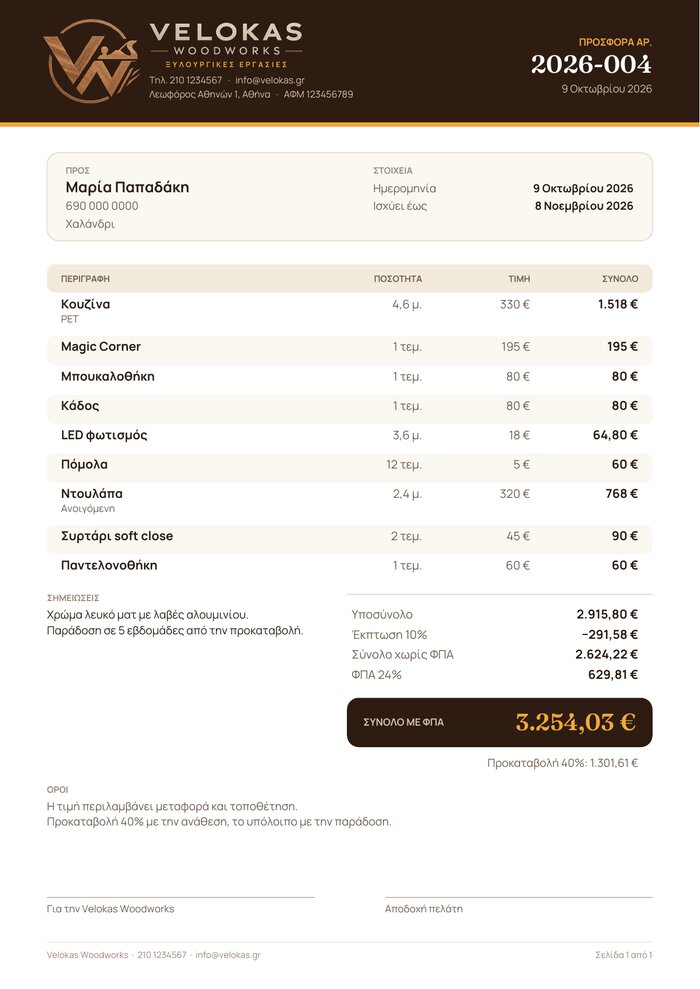
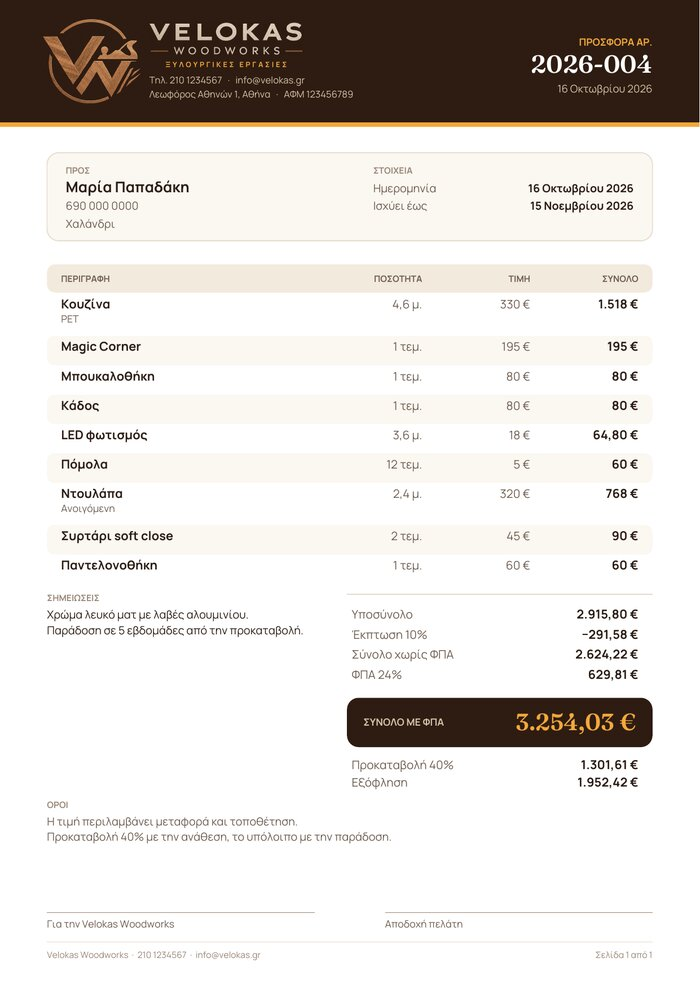
Bathroom furniture as a fourth kind of job
«Έπιπλο μπάνιου» joins Κουζίνα, Ντουλάπα and Πόρτα in the calculator and
in Settings, with its own materials (Μελαμίνη, PET, Κόντρα πλακέ) and
extras (Συρτάρι, Βαγονέτο, Καλάθι απλύτων).

- Migration 0005 rebuilds the items table once without the CHECK that
  limited the kind of job; the Worker validates it instead, from the same
  list the app uses, so later kinds need no rebuild. Ids and the id counter
  carry over, so deleted ids are still never reused.
- Melamine, PET, the drawer and the pull-out start at the kitchen's prices;
  plywood and the laundry basket start at 0 € until set in Ρυθμίσεις.
- Picker: four kinds in a 2×2 grid with «Συνδυασμός» across the bottom;
  it now keeps the job already chosen and you tick the others.
- Settings: four price-list tabs (Κουζίνα / Ντουλάπα / Πόρτα / Μπάνιο).
- PDF: slightly tighter payment lines and signature space, so a typical
  quote with deposit and balance still fits on one page.
- README and screenshots updated.

Claude-Session: https://claude.ai/code/session_01NCuyXwTXpZEXrmp5Fd4whW

diff --git a/tests/api.test.js b/tests/api.test.js
@@ -102,6 +102,10 @@ test('public config serves the seeded prices and Panos\'s price list', async () 
       ['wardrobe', 'Συρόμενη', 390, 'm'],
       ['door', 'Ανοιγόμενη', 400, 'pcs'],
       ['door', 'Συρόμενη', 600, 'pcs'],
+      // Bathroom: the kitchen's melamine and PET prices; plywood has none yet
+      ['bathroom', 'Μελαμίνη', 260, 'm'],
+      ['bathroom', 'PET', 330, 'm'],
+      ['bathroom', 'Κόντρα πλακέ', 0, 'm'],
     ],
   );
   const extras = (section) => config.extras.filter((e) => e.section === section).map((e) => [e.name, e.price, e.unit]);
@@ -113,6 +117,11 @@ test('public config serves the seeded prices and Panos\'s price list', async () 
     ['Παντελονοθήκη', 60, 'pcs'],
     ['LED φωτισμός', 18, 'm'],
     ['Πόμολα', 30, 'pcs'],
+  ]);
+  assert.deepEqual(extras('bathroom'), [
+    ['Συρτάρι', 40, 'pcs'],
+    ['Βαγονέτο', 100, 'pcs'],
+    ['Καλάθι απλύτων', 0, 'pcs'],
   ]);
   assert.equal(config.costs.length, 6);
   assert.equal('section' in config.costs[0], false, 'cost lines belong to no job');
@@ -172,7 +181,7 @@ test('saving settings updates what the calculator sees', async () => {
   assert.equal(saved.status, 200);
   const savedConfig = await saved.json();
   assert.equal(savedConfig.version, current.version + 1);
-  assert.equal(savedConfig.extras.length, 15, 'admins still see hidden items');
+  assert.equal(savedConfig.extras.length, 18, 'admins still see hidden items');
 
   const publicConfig = await (await call('GET', '/api/config')).json();
   assert.deepEqual(publicConfig.materials.slice(0, 3).map((m) => m.name), ['Μελαμίνη', 'Λάκα', 'PET']);
@@ -180,12 +189,13 @@ test('saving settings updates what the calculator sees', async () => {
   assert.equal(publicConfig.materials[1].unit, 'm2');
   assert.deepEqual(
     publicConfig.materials.map((m) => m.section),
-    ['kitchen', 'kitchen', 'kitchen', 'kitchen', 'wardrobe', 'wardrobe', 'door', 'door'],
+    ['kitchen', 'kitchen', 'kitchen', 'kitchen', 'wardrobe', 'wardrobe', 'door', 'door', 'bathroom', 'bathroom', 'bathroom'],
     'saving keeps every item in its job',
   );
   assert.equal(publicConfig.extras.find((e) => e.name === 'Παντελονοθήκη').section, 'wardrobe');
+  assert.equal(publicConfig.extras.find((e) => e.name === 'Καλάθι απλύτων').section, 'bathroom');
   assert.equal(publicConfig.extras[0].price, 205);
-  assert.equal(publicConfig.extras.length, 14, 'hidden extras are not public');
+  assert.equal(publicConfig.extras.length, 17, 'hidden extras are not public');
   assert.equal(publicConfig.settings.vatRate, 13);
   assert.equal(publicConfig.extras[0].id, current.extras[0].id, 'existing items keep their ids');
 

diff --git a/public/js/calculator.js b/public/js/calculator.js
@@ -31,8 +31,8 @@ import { session } from './session.js';
 const DRAFT_KEY = 'vw:draft:v1';
 const COST_TINT_OFFSET = 4;
 // Each job's card colour (.card[data-accent] in app.css) and chart colour.
-const JOB_ACCENT = { kitchen: 'amber', wardrobe: 'sky', door: 'teal' };
-const JOB_TINT = { kitchen: 'var(--amber)', wardrobe: 'var(--sky)', door: 'var(--teal)' };
+const JOB_ACCENT = { kitchen: 'amber', wardrobe: 'sky', door: 'teal', bathroom: 'green' };
+const JOB_TINT = { kitchen: 'var(--amber)', wardrobe: 'var(--sky)', door: 'var(--teal)', bathroom: 'var(--green)' };
 
 function setBusy(button, busy, label) {
   button.disabled = busy;
@@ -175,7 +175,7 @@ export function createCalculator({ onQuoteSaved } = {}) {
     update();
   }
 
-  // Step 1: kitchen, wardrobe or door, or «Συνδυασμός» to pick several.
+  // Step 1: one kind of job, or «Συνδυασμός» to pick several.
   function renderPicker() {
     const mode = draft.combo ? 'combo' : draft.sections[0];
     const tile = (value, label, iconName) =>
@@ -189,7 +189,7 @@ export function createCalculator({ onQuoteSaved } = {}) {
 
     comboEl.hidden = !draft.combo;
     comboEl.replaceChildren(
-      h('p', { class: 'job-combo-label' }, 'Τι περιλαμβάνει η προσφορά:'),
+      h('p', { class: 'job-combo-label' }, 'Διάλεξε τι περιλαμβάνει η προσφορά:'),
       h(
         'div',
         { class: 'chips', role: 'group', 'aria-label': 'Τι περιλαμβάνει η προσφορά' },
@@ -209,8 +209,7 @@ export function createCalculator({ onQuoteSaved } = {}) {
   function pickMode(value) {
     if (value === 'combo') {
       if (draft.combo) return;
-      draft.combo = true;
-      draft.sections = [...SECTION_KEYS]; // all three; untick what isn't needed
+      draft.combo = true; // keeps the job already chosen; tick the others
     } else {
       if (!draft.combo && draft.sections[0] === value) return;
       draft.combo = false;
@@ -224,7 +223,7 @@ export function createCalculator({ onQuoteSaved } = {}) {
   function toggleJob(key) {
     const on = draft.sections.includes(key);
     if (on && draft.sections.length === 1) {
-      toast('Η προσφορά χρειάζεται τουλάχιστον ένα από τα τρία.');
+      toast('Η προσφορά χρειάζεται τουλάχιστον μία εργασία.');
       return;
     }
     draft.sections = SECTION_KEYS.filter((k) => (k === key ? !on : draft.sections.includes(k)));

diff --git a/public/css/app.css b/public/css/app.css
@@ -306,6 +306,7 @@ img, svg { display: block; }
 .card[data-accent="violet"] { --a1: #a47bff; --a2: #e2558e; --ink: #6a44e0; }
 .card[data-accent="sky"] { --a1: #5ab8ff; --a2: #5468ff; --ink: #2f6fd0; }
 .card[data-accent="rose"] { --a1: #ff8a7a; --a2: #e24c7c; --ink: #c0365f; }
+.card[data-accent="green"] { --a1: #5ad18f; --a2: #12a594; --ink: #177f4a; }
 @media (prefers-color-scheme: dark) {
   .card[data-accent] { --ink: color-mix(in srgb, var(--a1) 85%, white); }
 }
@@ -1368,6 +1369,7 @@ textarea::placeholder { color: var(--text-3); }
 [data-job="kitchen"] { --tint: var(--amber); }
 [data-job="wardrobe"] { --tint: var(--sky); }
 [data-job="door"] { --tint: var(--teal); }
+[data-job="bathroom"] { --tint: var(--green); }
 [data-job="combo"] { --tint: var(--violet); }
 
 .job-picker { display: grid; grid-template-columns: repeat(2, 1fr); gap: 10px; }
@@ -1394,7 +1396,9 @@ textarea::placeholder { color: var(--text-3); }
   background: color-mix(in srgb, var(--tint) 16%, transparent);
 }
 .job-tile-icon .icon { width: 20px; height: 20px; }
-.job-tile-label { min-width: 0; overflow: hidden; text-overflow: ellipsis; white-space: nowrap; }
+.job-tile-label { min-width: 0; line-height: 1.2; overflow-wrap: anywhere; }
+/* «Συνδυασμός» sits under the four kinds of job, across the full width. */
+.job-tile[data-job="combo"] { grid-column: 1 / -1; flex-direction: row; align-items: center; gap: 12px; }
 .job-tile[aria-pressed="true"] {
   border-color: var(--tint);
   background: color-mix(in srgb, var(--tint) 12%, var(--surface));
@@ -1428,8 +1432,8 @@ textarea::placeholder { color: var(--text-3); }
 
 .price-tabs { display: grid; gap: 8px; margin-top: 6px; }
 .price-tabs .eyebrow { margin: 0 4px; color: var(--text-3); }
-.job-tabs { display: grid; grid-template-columns: repeat(3, 1fr); background: var(--surface); box-shadow: var(--shadow-card); }
-.job-tabs button { display: inline-flex; align-items: center; justify-content: center; gap: 6px; padding: 0 6px; font-size: 14.5px; }
+.job-tabs { display: grid; grid-template-columns: repeat(4, 1fr); background: var(--surface); box-shadow: var(--shadow-card); }
+.job-tabs button { display: inline-flex; flex-direction: column; align-items: center; justify-content: center; gap: 2px; height: auto; min-height: 52px; padding: 6px 2px; font-size: 13px; }
 .job-tabs button .icon { width: 18px; height: 18px; }
 
 /* ---------- Shared bits for the archive and the cut list ---------- */

diff --git a/tests/calc.test.js b/tests/calc.test.js
@@ -236,6 +236,32 @@ const shop = {
   ],
 };
 
+test('a kitchen and a bathroom vanity can go in one quote', () => {
+  const shop = {
+    ...config,
+    materials: [...config.materials, { id: 40, name: 'Κόντρα πλακέ', price: 280, unit: 'm', section: 'bathroom', icon: '' }],
+    extras: [...config.extras, { id: 41, name: 'Καλάθι απλύτων', price: 35, unit: 'pcs', section: 'bathroom', icon: 'shopping-basket' }],
+  };
+  const input = draft({
+    sections: ['bathroom', 'kitchen'],
+    combo: true,
+    jobs: { kitchen: { qty: '3' }, bathroom: { qty: '1,2' } },
+    extras: { 41: { qty: '1' } },
+  });
+  const quote = computeQuote(shop, input);
+  assert.deepEqual(quote.sections.map((s) => [s.key, s.label, s.material.name, s.totalCents]), [
+    ['kitchen', 'Κουζίνα', 'Μελαμίνη', 96000],
+    ['bathroom', 'Έπιπλο μπάνιου', 'Κόντρα πλακέ', 33600 + 3500], // 1,2 m × 280 € + basket
+  ]);
+  const doc = buildQuoteDoc(quote, input);
+  assert.equal(doc.subject, 'Προσφορά κουζίνας και επίπλου μπάνιου');
+  assert.deepEqual(doc.lines.map((line) => [line.name, line.detail]), [
+    ['Κουζίνα', 'Μελαμίνη'],
+    ['Έπιπλο μπάνιου', 'Κόντρα πλακέ'],
+    ['Καλάθι απλύτων', 'Έπιπλο μπάνιου'],
+  ]);
+});
+
 test('a quote can cover a kitchen, a wardrobe and doors together', () => {
   const input = draft({
     sections: ['door', 'kitchen', 'wardrobe'], // any order: shown kitchen, wardrobe, door
@@ -302,6 +328,7 @@ test('drafts and saved quotes from before job types open as a kitchen', () => {
 test('the subject names the jobs in a quote', () => {
   assert.equal(jobSubject(['kitchen']), 'Προσφορά κουζίνας');
   assert.equal(jobSubject(['door', 'wardrobe']), 'Προσφορά ντουλάπας και πόρτας');
+  assert.equal(jobSubject(['bathroom', 'door', 'kitchen', 'wardrobe']), 'Προσφορά κουζίνας, ντουλάπας, πόρτας και επίπλου μπάνιου');
   assert.equal(jobSubject([]), 'Προσφορά');
 });
 

diff --git a/public/js/pdf-quote.js b/public/js/pdf-quote.js
@@ -165,7 +165,7 @@ export async function quotePdf(doc, settings) {
     const boxHeight = 42;
     // Under the total: how it is paid.
     const payments = doc.depositCents > 0 ? [[depositLabel(doc), doc.depositCents], ['Εξόφληση', balanceOf(doc)]] : [];
-    const height = 10 + rows.length * 17 + 16 + boxHeight + (payments.length ? 6 + payments.length * 17 : 0);
+    const height = 10 + rows.length * 17 + 16 + boxHeight + (payments.length ? 4 + payments.length * 15 : 0);
     const noteLines = doc.notes ? wrap(doc.notes, fonts.regular, 9.5, CONTENT - width - 28) : [];
     const notesBeside = noteLines.length > 0 && 15 + noteLines.length * 13 <= height;
     ensure(height + 4);
@@ -193,13 +193,13 @@ export async function quotePdf(doc, settings) {
       tone: 'amber',
     });
     y -= boxHeight;
-    if (payments.length) y -= 6;
+    if (payments.length) y -= 4;
     for (const [label, cents] of payments) {
-      y -= 17;
+      y -= 15;
       p.text(label, x + 4, y, { size: 10, tone: 'muted' });
       p.right(formatMoney(cents), M + CONTENT - 12, y, { font: fonts.bold, size: 10.5 });
     }
-    y -= 22;
+    y -= 18;
     return notesBeside;
   }
 
@@ -218,7 +218,7 @@ export async function quotePdf(doc, settings) {
     y -= 10;
   }
 
-  const SIGNATURES = 40; // room to sign above the lines, plus their captions
+  const SIGNATURES = 36; // room to sign above the lines, plus their captions
   function signatures() {
     ensure(SIGNATURES);
     // With space to spare they sit low on the page, like on a printed form.

diff --git a/tests/validate.test.js b/tests/validate.test.js
@@ -163,12 +163,17 @@ test('only known quote statuses are accepted', () => {
 test('materials and extras have a unit and a kind of job', () => {
   const body = valid();
   body.materials.push({ name: 'Ανοιγόμενη', price: 400, unit: 'pcs', section: 'door', active: true });
+  body.materials.push({ name: 'Κόντρα πλακέ', price: 0, section: 'bathroom', active: true }); // no price yet
   body.extras[0].unit = 'm';
   body.extras[0].section = 'wardrobe';
   body.costs[0].unit = 'm'; // cost lines are plain amounts
   body.costs[0].section = 'door';
   const config = validateConfig(body);
-  assert.deepEqual(config.materials.map((m) => [m.unit, m.section]), [['m', 'kitchen'], ['pcs', 'door']]);
+  assert.deepEqual(config.materials.map((m) => [m.unit, m.section, m.priceCents]), [
+    ['m', 'kitchen', 32000],
+    ['pcs', 'door', 40000],
+    ['m', 'bathroom', 0],
+  ]);
   assert.deepEqual([config.extras[0].unit, config.extras[0].section], ['m', 'wardrobe']);
   assert.deepEqual([config.extras[1].unit, config.extras[1].section], ['pcs', 'kitchen']);
   assert.deepEqual([config.costs[0].unit, config.costs[0].section], ['pcs', 'kitchen']);

diff --git a/public/js/calc.js b/public/js/calc.js
@@ -74,6 +74,7 @@ export function formatDate(date) {
 export const SECTIONS = {
   kitchen: {
     label: 'Κουζίνα',
+    short: 'Κουζίνα',
     of: 'κουζίνας',
     icon: 'chef-hat',
     pick: 'Υλικό',
@@ -82,6 +83,7 @@ export const SECTIONS = {
   },
   wardrobe: {
     label: 'Ντουλάπα',
+    short: 'Ντουλάπα',
     of: 'ντουλάπας',
     icon: 'shirt',
     pick: 'Τύπος ντουλάπας',
@@ -90,11 +92,21 @@ export const SECTIONS = {
   },
   door: {
     label: 'Πόρτα',
+    short: 'Πόρτα',
     of: 'πόρτας',
     icon: 'door-open',
     pick: 'Τύπος πόρτας',
     materialsTitle: 'Τύποι πόρτας',
     extrasTitle: 'Extras πόρτας',
+  },
+  bathroom: {
+    label: 'Έπιπλο μπάνιου',
+    short: 'Μπάνιο',
+    of: 'επίπλου μπάνιου',
+    icon: 'bath',
+    pick: 'Υλικό',
+    materialsTitle: 'Υλικά μπάνιου',
+    extrasTitle: 'Extras μπάνιου',
   },
 };
 export const SECTION_KEYS = Object.keys(SECTIONS);

diff --git a/src/validate.js b/src/validate.js
@@ -1,5 +1,6 @@
 // Validation for the admin "save settings" payload. Pure functions, so they
 // can be unit-tested in Node without the Workers runtime.
+import { SECTION_KEYS } from '../public/js/calc.js';
 
 export const LIMITS = {
   material: 50,
@@ -25,7 +26,7 @@ const ICON_RE = /^[a-z0-9-]{1,40}$/;
 // How an item is priced: per metre, per square metre or per piece.
 export const UNITS = ['m', 'm2', 'pcs'];
 // The kinds of job a quote covers; materials and extras belong to one.
-export const SECTIONS = ['kitchen', 'wardrobe', 'door'];
+export const SECTIONS = SECTION_KEYS;
 
 const LIST_LABELS = {
   materials: 'Υλικά',

diff --git a/src/config.js b/src/config.js
@@ -1,3 +1,4 @@
+import { SECTION_KEYS } from '../public/js/calc.js';
 import { HttpError } from './http.js';
 
 const DEFAULT_SETTINGS = {
@@ -31,7 +32,7 @@ const NUMERIC_SETTINGS = new Set(['vatRate', 'validityDays', 'depositPercent']);
 
 const LIST_BY_KIND = { material: 'materials', extra: 'extras', cost: 'costs' };
 const UNITS = new Set(['m', 'm2', 'pcs']);
-const SECTIONS = new Set(['kitchen', 'wardrobe', 'door']);
+const SECTIONS = new Set(SECTION_KEYS);
 
 // Reads everything the calculator needs. Admins also get inactive items.
 export async function readConfig(db, { includeInactive = false } = {}) {

diff --git a/public/sw.js b/public/sw.js
@@ -3,7 +3,7 @@
 // up straight away) and the cached copy is used only when the network fails
 // or is too slow. The API is never cached here: the app keeps its own copy of
 // the prices, and admin data stays online-only.
-const CACHE = 'velokas-v5';
+const CACHE = 'velokas-v6';
 const NETWORK_TIMEOUT_MS = 4000;
 
 // Needed to open the app offline. Must all exist, or installing fails.

diff --git a/public/js/icons.js b/public/js/icons.js
@@ -26,6 +26,8 @@ export const PICKER_ICONS = [
   ['lightbulb', 'Φωτισμός'],
   ['grip-horizontal', 'Πόμολο'],
   ['shirt', 'Ντουλάπα'],
+  ['bath', 'Μπάνιο'],
+  ['shopping-basket', 'Καλάθι'],
   ['lamp-ceiling', 'Φωτιστικό'],
   ['plug-zap', 'Ρεύμα'],
   ['boxes', 'Κομμάτια'],

diff --git a/public/js/settings.js b/public/js/settings.js
@@ -248,7 +248,7 @@ export function createSettings({ onSaved }) {
           'button',
           { type: 'button', 'aria-pressed': String(section === key), onclick: () => showSection(key) },
           icon(SECTIONS[key].icon),
-          SECTIONS[key].label,
+          SECTIONS[key].short,
         ),
       ),
     );
